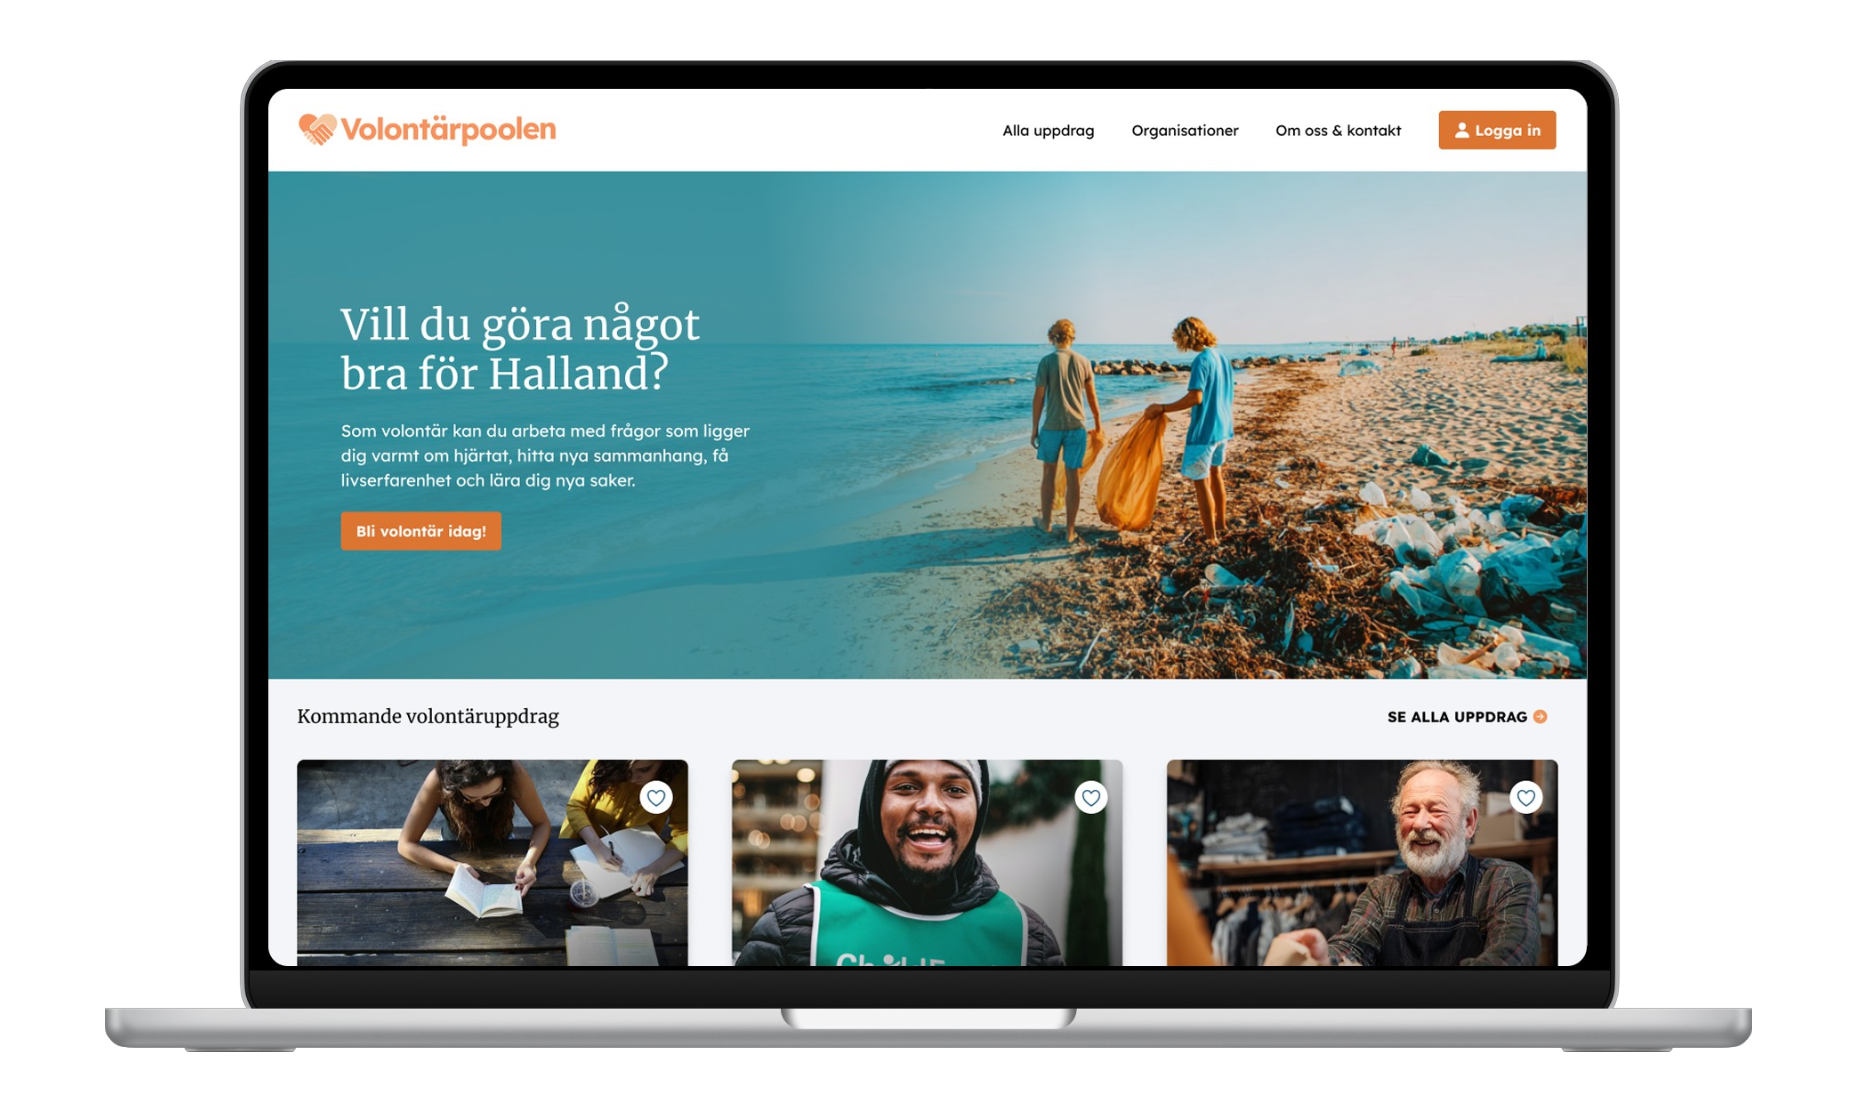
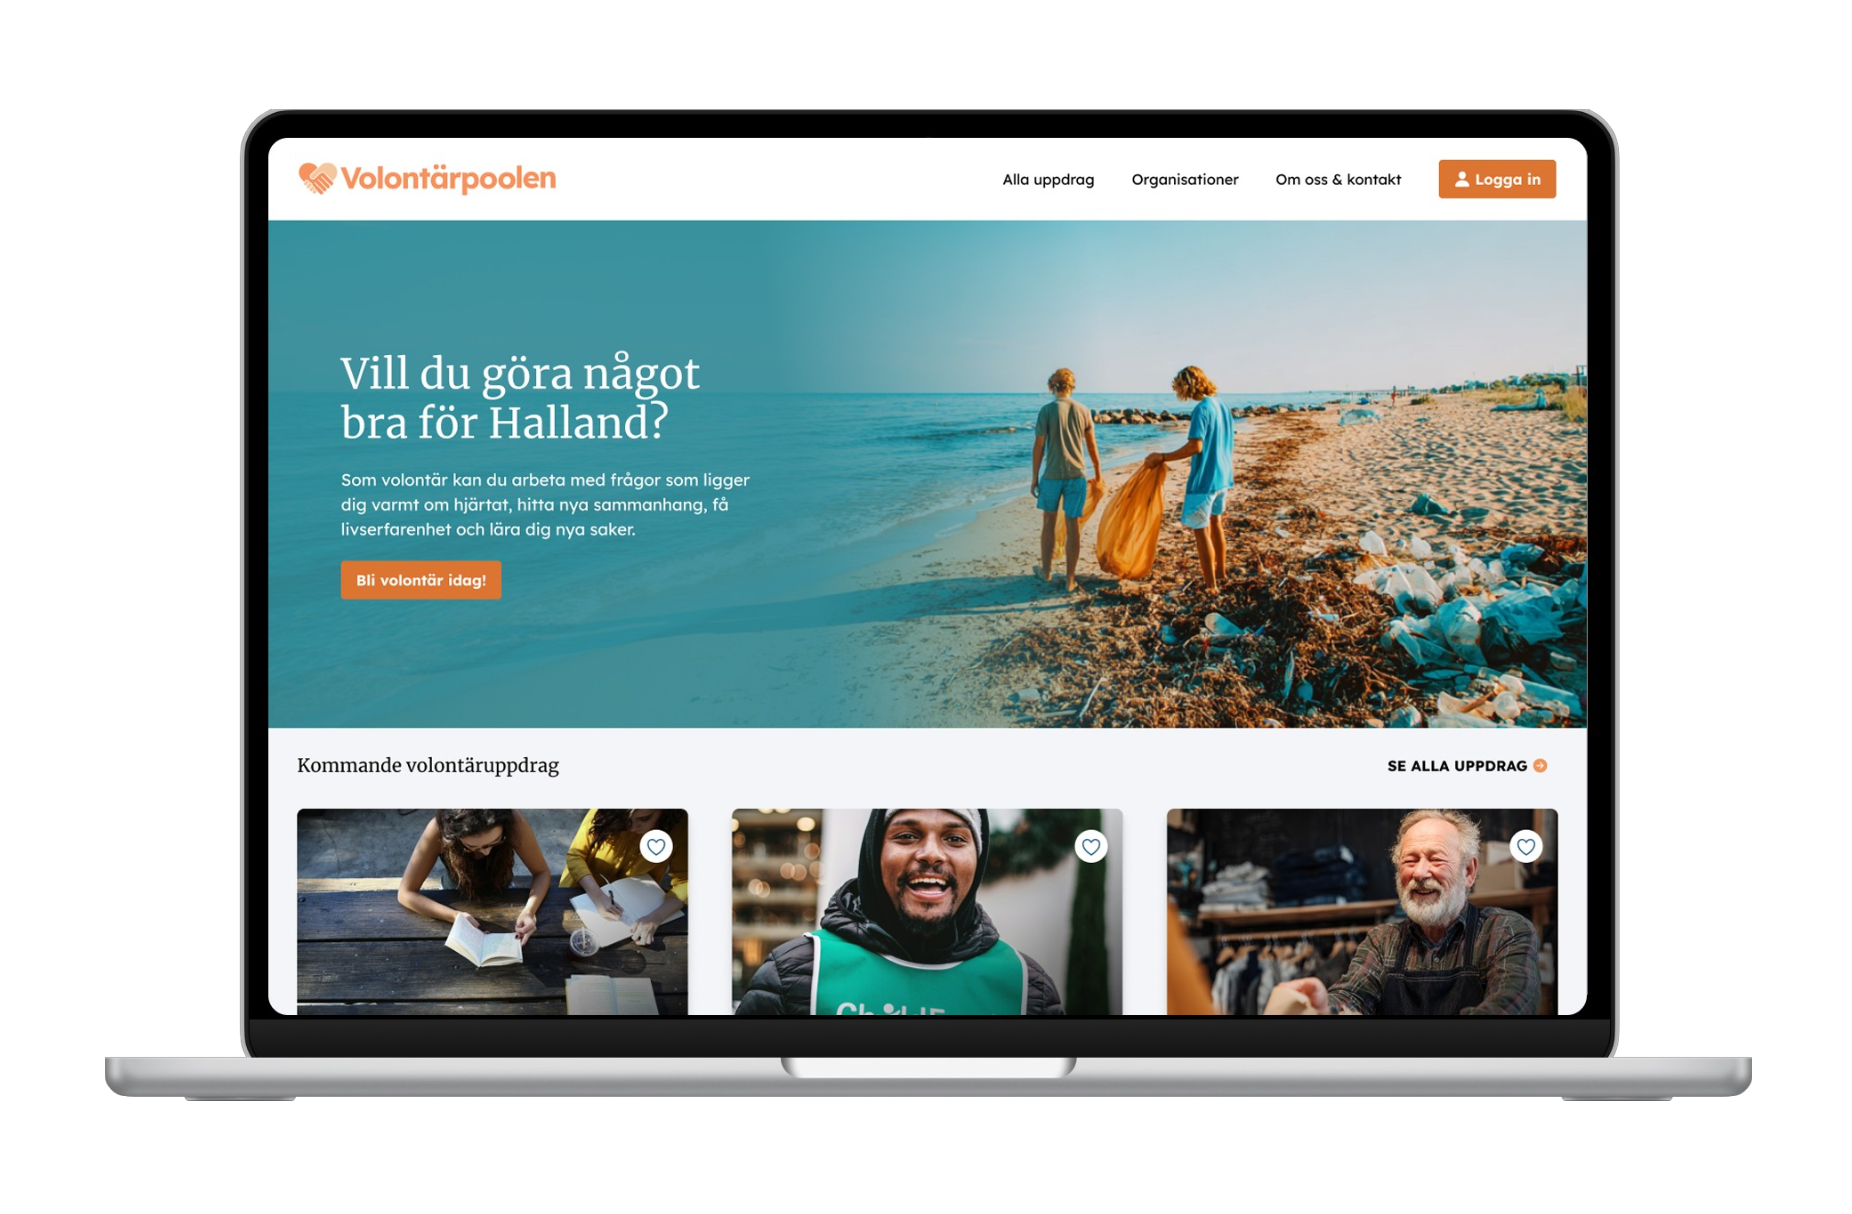
fix: adjust sizing and make Volontärpoolen project image responsive

diff --git a/src/pages/Project6.jsx b/src/pages/Project6.jsx
@@ -1,7 +1,7 @@
 import React from "react";
 import ProjectLayout from "../components/ProjectLayout";
 import ImageOverlay from "../components/ImageOverlay";
-import volontarpoolenImage from "../assets/images/volontarpool.png";
+import volontarpoolenImage from "../assets/images/volontarpoolen.png";
 
 const Project6 = () => {
   return (

diff --git a/src/styles/ProjectCard.css b/src/styles/ProjectCard.css
@@ -147,7 +147,7 @@
 }
 
 .project-card.orange-background .project-image {
-  background-color: #ffcda9c0;
+  background-color: #ffcda9d0;
 }
 
 .project-card.gray-background .project-image {
